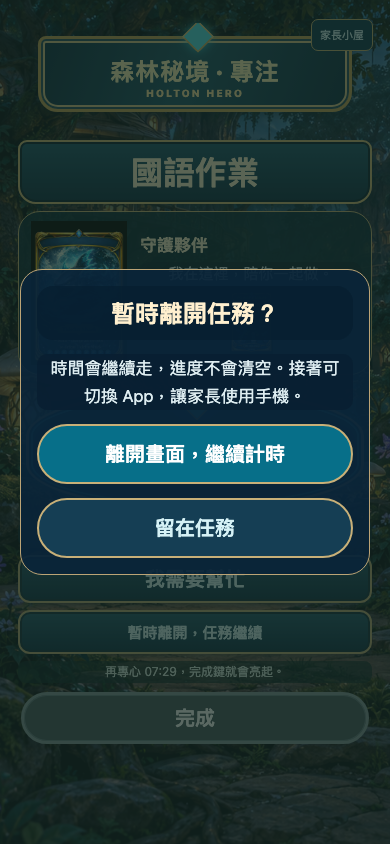
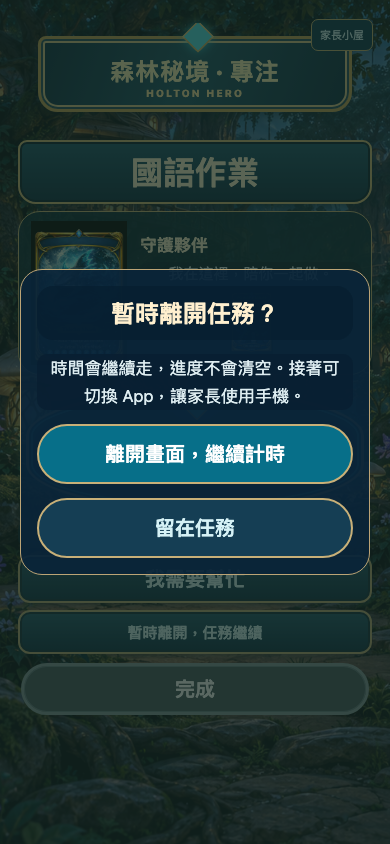
style(tasks): remove completion helper text and backing

Changed region(s): [[0.0308, 0.7701, 0.9231, 0.8934], [0.9231, 0.8009, 0.9538, 0.8626]]

diff --git a/src/LightApp.tsx b/src/LightApp.tsx
@@ -19,7 +19,7 @@ import { chooseFinishEncouragement, finishEncouragements, type FinishContext } f
 import { planWorldRedemption, redeemWorldCards, worldExchangeDay, worldRewardLabel, type WorldDraw, type WorldRedemption } from './data/worldRedemption';
 import type { PersistedAppState } from './types/holton';
 
-import {migrateFocus,elapsedFocusMs,minimumFocusMs,canFinishFocus,pauseFocus,clockText} from './lib/focusSession';
+import {migrateFocus,elapsedFocusMs,canFinishFocus,pauseFocus,clockText} from './lib/focusSession';
 
 import {useTaskChime} from './lib/taskChime';
 
@@ -156,7 +156,6 @@ export default function LightApp() {
   const dismissStory=()=>void change(s=>!s.journeys||s.journeys.event?.id!==journey.event?.id?s:({...s,journeys:{...s.journeys,event:undefined}}));
   const remaining = state.deadline ? Math.max(0, Math.ceil((state.deadline - now) / 1000)) : state.remaining;
   const focusElapsed=elapsedFocusMs(state,now);
-  const focusWait=Math.max(0,Math.ceil((minimumFocusMs(state.minutes)-focusElapsed)/1000));
   const focusReady=canFinishFocus(state,now);
   const focusActive=state.phase==='active'&&!state.help&&!settingsOpen;
   const guardian = state.guardian;
@@ -407,8 +406,7 @@ export default function LightApp() {
 
         {!state.help ? <>
           {button('暫時離開，任務繼續',()=>setLeavePrompt(true),true)}
-          {state.taskReminderShown?<Text testID="task-due-reminder" accessibilityLiveRegion="polite" style={styles.caption}>{state.minutes===0?'已滿 10 分鐘，做好了再按完成。':'任務時間到了，做好了再按完成。'}</Text>:null}
-          <Text testID="focus-unlock-hint" style={styles.focusHint}>{focusReady?'做好了，再按完成。':`再專心 ${clockText(focusWait)}，完成鍵就會亮起。`}</Text>
+          {state.taskReminderShown?<Text testID="task-due-reminder" accessibilityLiveRegion="polite" style={styles.caption}>{state.minutes===0?'已滿 10 分鐘。':'任務時間到了。'}</Text>:null}
           <Pressable testID="focus-complete" accessibilityRole="button" accessibilityLabel="完成" accessibilityState={{disabled:!focusReady||saving}} disabled={!focusReady||saving} onPress={()=>void change(enterFinishing)} style={[styles.button,(!focusReady||saving)&&styles.focusLocked]}><Text style={styles.buttonText}>完成</Text></Pressable>
 
         </> : null}
@@ -509,7 +507,6 @@ const styles = StyleSheet.create({
   taskTitleHint:{fontSize:12,lineHeight:18,color:'#c2d9dd',textAlign:'center'},
   focusMissionName:{fontSize:32,lineHeight:42,fontWeight:'800'},
   focusCompanionPanel:{padding:9,gap:10},
-  focusHint:{fontSize:12,lineHeight:18,color:'#d6e5df',textAlign:'center',backgroundColor:'rgba(9,35,40,.65)',borderRadius:8,paddingHorizontal:6,paddingVertical:2},
   focusLocked:{backgroundColor:'#46565f',borderColor:'#829399'},
   worldName: {fontSize: 28, fontWeight: '900', color: '#fff1b9', letterSpacing: 3},
   smallLink: { minHeight: 44, alignSelf: 'center', paddingHorizontal: 18, justifyContent: 'center', borderRadius: 18, backgroundColor: 'rgba(8,31,49,.88)' },

diff --git a/reports/task-away-sound/README.md b/reports/task-away-sound/README.md
@@ -9,3 +9,5 @@ Background/mobile/lockscreen audio is best effort, not a promised OS alarm. Susp
 Preserves user's newly requested classic focus scene: larger task/time, companion panel about25% smaller, task-title edit menu, all time/reward rules.
 
 Validation: typecheck/lint/export; model/backup tests; Chrome320/390 synthetic actual-click tests count Web Audio oscillator starts (3notes) for timed/untimed, once-only/no automatic reward, sound off and saved preference, explicit preview, autoplay rejection/manual fallback, lifecycle frozen→active catchup, help pause, leave/cancel/return/reload invariants. Focus regression includes all9scenes and threshold/reward checks. This tests browser audio scheduling, not physical iPhone audibility or guaranteed background alarms.
+
+Follow-up screenshot request: removed the complete-button helper line and its backing panel for both locked and eligible states (no countdown-to-unlock or "做好了，再按完成"). Actual button eligibility is unchanged. Due notification text is kept short and only appears when the actual timer target is reached, as part of the requested sound fallback.
